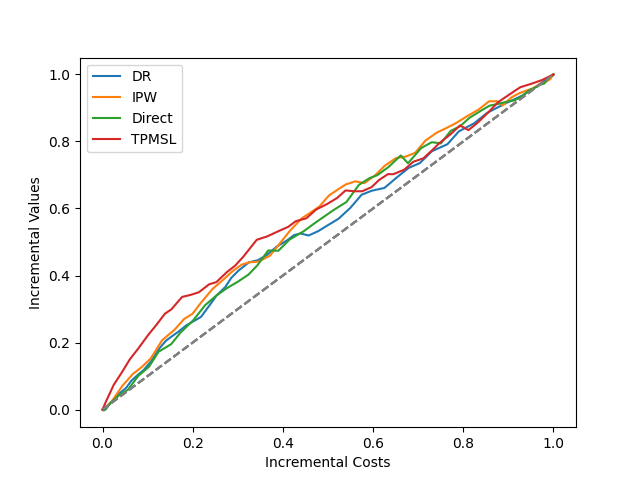
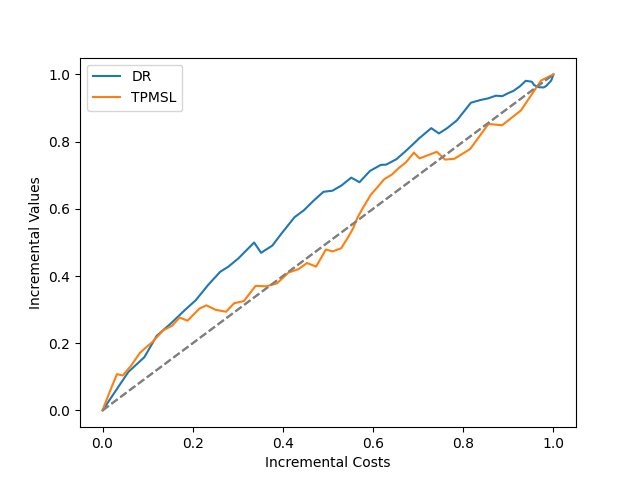
rename branch_name

diff --git a/src/make_data.py b/src/make_data.py
@@ -1,5 +1,6 @@
 from typing import Any, Dict, Tuple
 
+import matplotlib.pyplot as plt
 import numpy as np
 from lightgbm import LGBMRegressor
 from numpy.typing import NDArray
@@ -56,21 +57,19 @@ class DatasetGenerator:
         ).astype(int)
         logistic_model.fit(features, target)
         T_prob = logistic_model.predict_proba(features)[:, 1]
-        # dic["T_prob"] = sigmoid(
-        #     np.dot(
-        #         features, np.random.uniform(0.1, 0.5, size=features.shape[1])
-        #     )
+        # T_prob = sigmoid(
+        #     np.dot(features, np.random.uniform(0.1, 0.5, size=features.shape[1]))
         #     - 0.5
         #     + np.random.normal(0, 0.5, size=len(features))
         # )
         T_prob = T_prob.clip(0.01, 0.99)
         T: NDArray[Any] = np.random.binomial(1, T_prob).astype(bool)
-        # treatment_prob = T_prob[T == 1]
-        # control_prob = T_prob[T == 0]
-        # plt.hist(treatment_prob, bins=20, alpha=0.5, label="T=1")
-        # plt.hist(control_prob, bins=20, alpha=0.5, label="T=0")
-        # plt.legend()
-        # plt.savefig("treatment_prob.png")
+        treatment_prob = T_prob[T == 1]
+        control_prob = T_prob[T == 0]
+        plt.hist(treatment_prob, bins=20, alpha=0.5, label="T=1")
+        plt.hist(control_prob, bins=20, alpha=0.5, label="T=0")
+        plt.legend()
+        plt.savefig("treatment_prob.png")
 
         # import pdb
 
@@ -112,6 +111,10 @@ class DatasetGenerator:
             0.95,
         )
         visit = np.random.binomial(1, prob_visit)
+        plt.clf()
+        plt.hist(prob_visit, bins=20, alpha=0.5, label="Visit")
+        plt.savefig("visit_prob.png")
+        # import pdb; pdb.set_trace()
         return {"y_c": visit}
 
     def generate_conversion(
@@ -138,6 +141,10 @@ class DatasetGenerator:
             0.90,
         )
         purchase = np.where(visit == 1, np.random.binomial(1, prob_purchase), 0)
+        plt.clf()
+        plt.hist(prob_purchase, bins=20, alpha=0.5, label="Purchase")
+        plt.savefig("purchase_prob.png")
+        # import pdb; pdb.set_trace()
         return {"y_r": purchase}
 
     def culculate_doubly_robust(

diff --git a/main.py b/main.py
@@ -31,7 +31,7 @@ def main(predict_ps: bool) -> None:
     n_features = 8
     num_epochs = 150
     lr = 0.0001
-    std = 0.6
+    std = 1.0
     batch_size = 128
     model_name = "Direct"
     model_params = {"input_dim": n_features}
@@ -39,7 +39,11 @@ def main(predict_ps: bool) -> None:
     dataset = dataset.generate_dataset()
     train_dataset, val_dataset, test_dataset = split_dataset(dataset)
     model = get_model(model_name=model_name, model_params=model_params)
-    method_list: list = ["DR", "IPW", "Direct"]
+    method_list: list = [
+        "DR",
+        #  "IPW",
+        #  "Direct"
+    ]
     roi_dic = {}
     for method in method_list:
         train_dl = make_loader(
